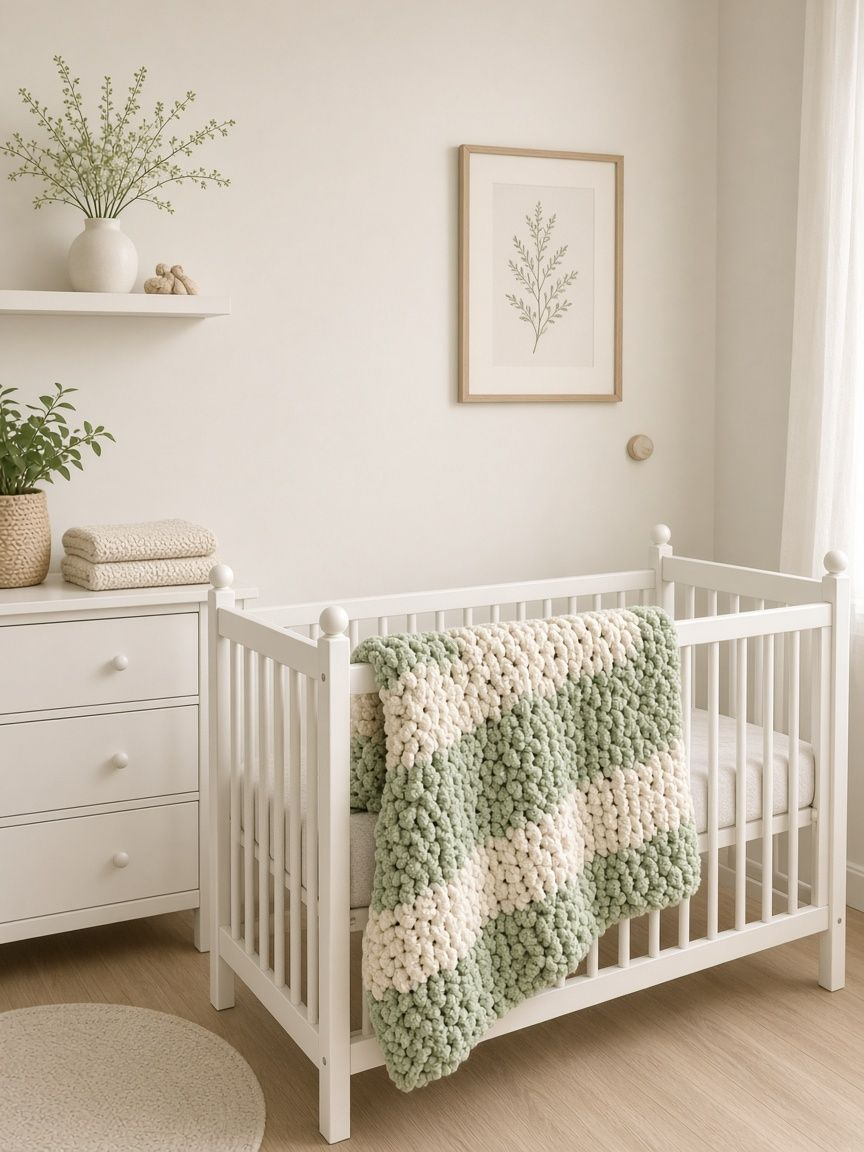
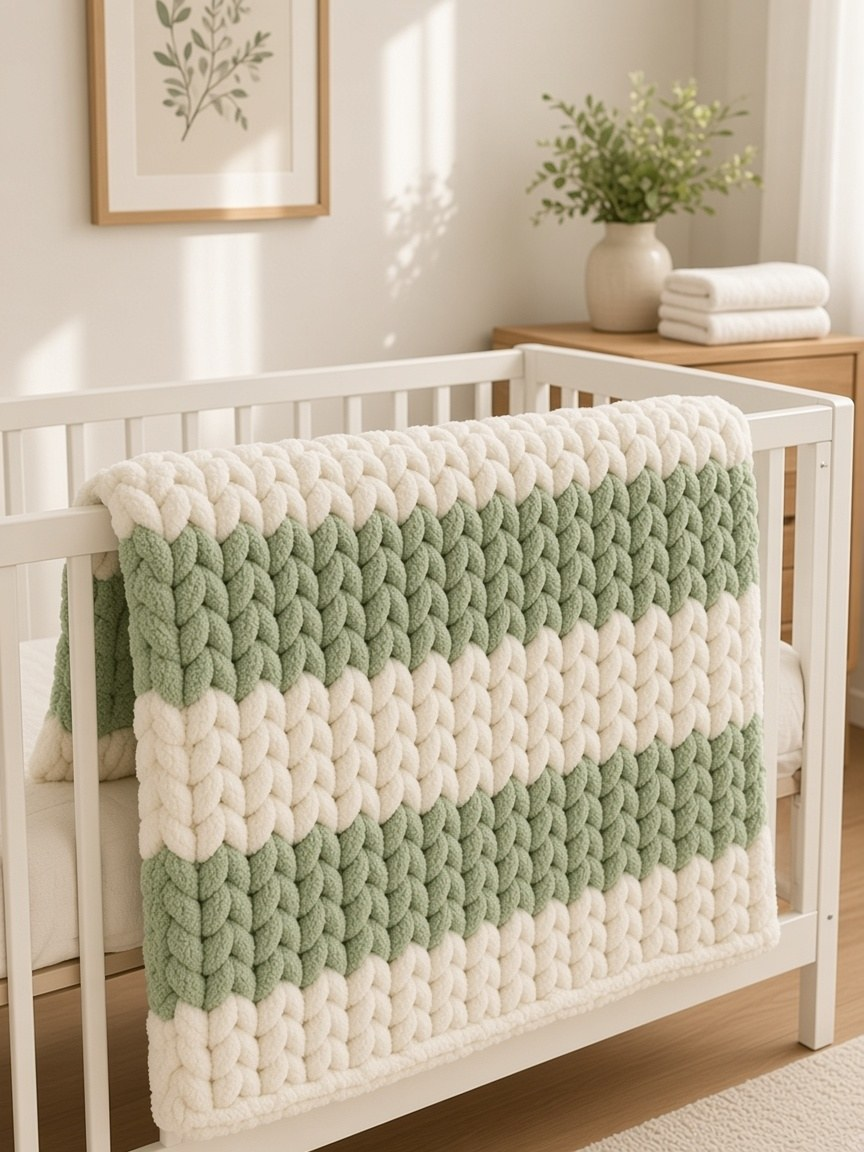
Add About Me page, realistic nursery photo

diff --git a/about.html b/about.html
@@ -1,0 +1,92 @@
+<!doctype html>
+<html lang="en">
+<head>
+  <meta charset="utf-8">
+  <meta name="viewport" content="width=device-width, initial-scale=1">
+  <title>About Me | Wrapped in Grace Co.</title>
+  <meta name="description" content="Meet Stephanie Meninga, the maker behind Wrapped in Grace Co., handmade chunky chenille blankets.">
+  <meta name="theme-color" content="#F7F1E8">
+  <meta property="og:type" content="website">
+  <meta property="og:site_name" content="Wrapped in Grace Co.">
+  <meta property="og:title" content="Wrapped in Grace Co. | Handmade Chunky Chenille Blankets">
+  <meta property="og:description" content="Soft, chunky, handmade chenille blankets in any size and color combination.">
+  <meta property="og:image" content="photos/og.jpg"><!-- swap for the full https:// URL once the site has an address -->
+  <meta property="og:image:alt" content="A cream and dusty-blue chunky blanket draped over a sofa (placeholder image)">
+  <meta name="twitter:card" content="summary_large_image">
+  <link rel="icon" href="assets/favicon.svg" type="image/svg+xml">
+  <link rel="stylesheet" href="assets/styles.css">
+</head>
+<body id="top">
+  <a class="skip-link" href="#main">Skip to content</a>
+
+  <header class="site-header" data-header>
+    <div class="container header-inner">
+      <a class="brand" href="index.html" aria-label="Wrapped in Grace Co., back to top">
+        <svg class="brand-mark" viewBox="0 0 48 48" width="40" height="40" aria-hidden="true" focusable="false"><use href="#yarn-mark"/></svg>
+        <span class="brand-text"><span class="brand-script">Wrapped in Grace</span><span class="brand-sub">Co.</span></span>
+      </a>
+      <button class="nav-toggle" type="button" aria-expanded="false" aria-controls="site-nav"><span class="sr-only">Menu</span><span class="bars" aria-hidden="true"></span></button>
+      <nav id="site-nav" class="site-nav" aria-label="Main">
+        <a href="index.html#about">Our Story</a>
+        <a href="about.html" aria-current="page">About Me</a>
+        <a href="index.html#why">Why You'll Love Them</a>
+        <a href="index.html#sizes">Sizes &amp; Pricing</a>
+        <a href="index.html#how">How It Works</a>
+        <a class="btn btn-small" href="index.html#request">Request a Blanket</a>
+      </nav>
+    </div>
+  </header>
+
+  <svg width="0" height="0" style="position:absolute" aria-hidden="true" focusable="false">
+    <defs>
+      <g id="yarn-mark" fill="none" stroke="currentColor" stroke-width="2.3" stroke-linecap="round">
+        <circle cx="22" cy="22" r="16"/>
+        <path d="M8.5 16.5c9 6 19 6.500 27-2.500"/>
+        <path d="M6.500 25c10 6.500 22 6 31-3.500"/>
+        <path d="M11 33.500c8 3.500 16 2 22-4"/>
+        <path d="M17 7c-3 8-2 18 3 31"/>
+        <path d="M33.500 38c4 6.500 9 6 11.500 1.500" stroke="#C8A156"/>
+      </g>
+    </defs>
+  </svg>
+
+  <main id="main">
+    <section class="section about" aria-labelledby="me-title">
+      <div class="container about-grid">
+        <figure class="soft-photo about-photo">
+          <img src="photos/hands.jpg" width="1152" height="864" alt="Hands looping thick chenille yarn on a wooden table (illustrative image)">
+        </figure>
+        <div class="about-copy">
+          <p class="eyebrow">About me</p>
+          <h1 id="me-title" style="font-family:Cormorant,serif;font-weight:600;font-size:clamp(2rem,5vw,3rem);line-height:1.1;margin:0 0 .6rem">Hi, I'm Stephanie.</h1>
+          <p class="lead">I'm the maker behind Wrapped in Grace Co., where every blanket is looped by hand.</p>
+          <p>I make chunky chenille blankets in thick, squishy yarn that feels as good as it looks. Every one is made to order, so no two come out exactly alike, and that's part of the charm.</p>
+          <p>I started Wrapped in Grace Co. because I love making something with my hands that people can wrap up in, gift to someone they love, or bring home for a new baby.</p>
+          <p>You pick the size and the colors, from baby blankets all the way to king, and I make it just for you. Custom sizes, patterns and special requests are always welcome.</p>
+          <p class="sign"><span>Stephanie</span> <a class="ig-link" href="https://www.instagram.com/wrappedingrace.homemaid/" rel="noopener">@wrappedingrace.homemaid</a></p>
+          <p style="margin-top:1.4rem"><a class="btn" href="index.html#request">Request a custom blanket</a> <a class="btn btn-ghost" href="index.html#sizes">See sizes &amp; pricing</a></p>
+        </div>
+      </div>
+    </section>
+
+    <section class="section why" aria-labelledby="values-title">
+      <div class="container narrow center">
+        <p class="eyebrow">What I care about</p>
+        <h2 id="values-title">Handmade with love, every time.</h2>
+        <p>Every blanket is made by hand, one at a time, with care for the details. If you have a color combination or a gift in mind, tell me about it and I'll help bring it to life.</p>
+      </div>
+    </section>
+  </main>
+
+  <footer class="site-footer">
+    <div class="container footer-inner">
+      <svg class="brand-mark footer-mark" viewBox="0 0 48 48" width="52" height="52" aria-hidden="true" focusable="false"><use href="#yarn-mark" /></svg>
+      <p class="footer-script">Wrapped in Grace Co.</p>
+      <p class="footer-meta">Handmade chunky chenille blankets</p>
+      <p class="footer-links"><a href="https://www.instagram.com/wrappedingrace.homemaid/" rel="noopener">Instagram @wrappedingrace.homemaid</a> · Etsy shop coming soon</p>
+      <p class="copyright">© Wrapped in Grace Co.</p>
+    </div>
+  </footer>
+  <script src="assets/site.js"></script>
+</body>
+</html>

diff --git a/index.html b/index.html
@@ -28,6 +28,7 @@
       <button class="nav-toggle" type="button" aria-expanded="false" aria-controls="site-nav"><span class="sr-only">Menu</span><span class="bars" aria-hidden="true"></span></button>
       <nav id="site-nav" class="site-nav" aria-label="Main">
         <a href="#about">Our Story</a>
+        <a href="about.html">About Me</a>
         <a href="#why">Why You'll Love Them</a>
         <a href="#sizes">Sizes &amp; Pricing</a>
         <a href="#how">How It Works</a>
@@ -84,7 +85,7 @@
     <section class="section about" id="about" aria-labelledby="about-title">
       <div class="container about-grid">
         <figure class="soft-photo about-photo">
-          <img src="photos/nursery.jpg" width="864" height="1152" alt="A sage green and cream chunky blanket draped over the rail of a white crib in a softly lit nursery (placeholder image)">
+          <img src="photos/nursery.jpg?v=2" width="864" height="1152" alt="A sage green and cream chunky blanket draped over the rail of a white crib in a softly lit nursery (placeholder image)">
         </figure>
         <div class="about-copy">
           <p class="eyebrow">Our story</p>
